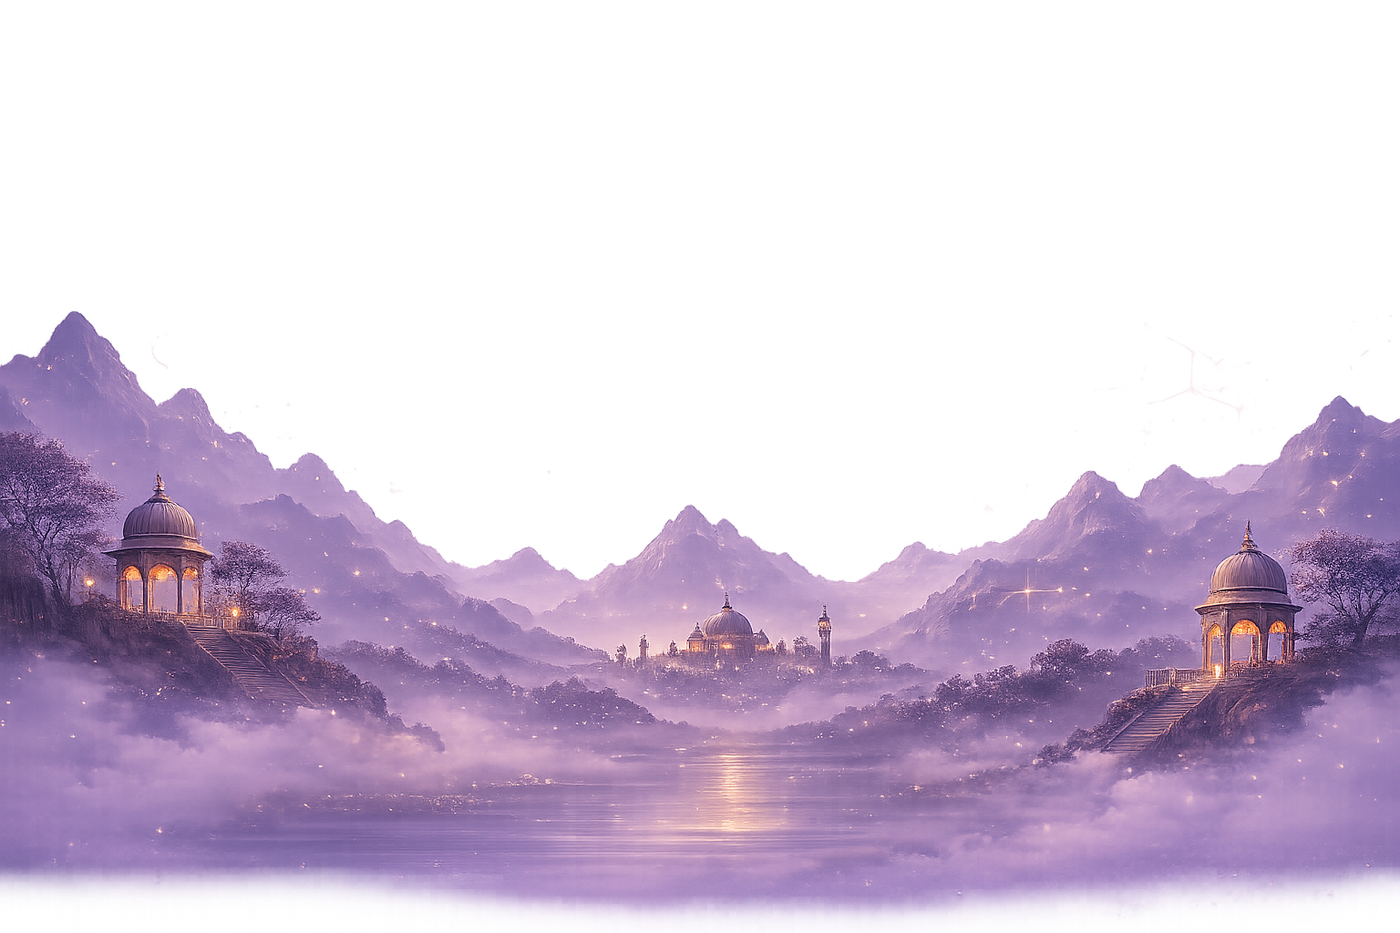
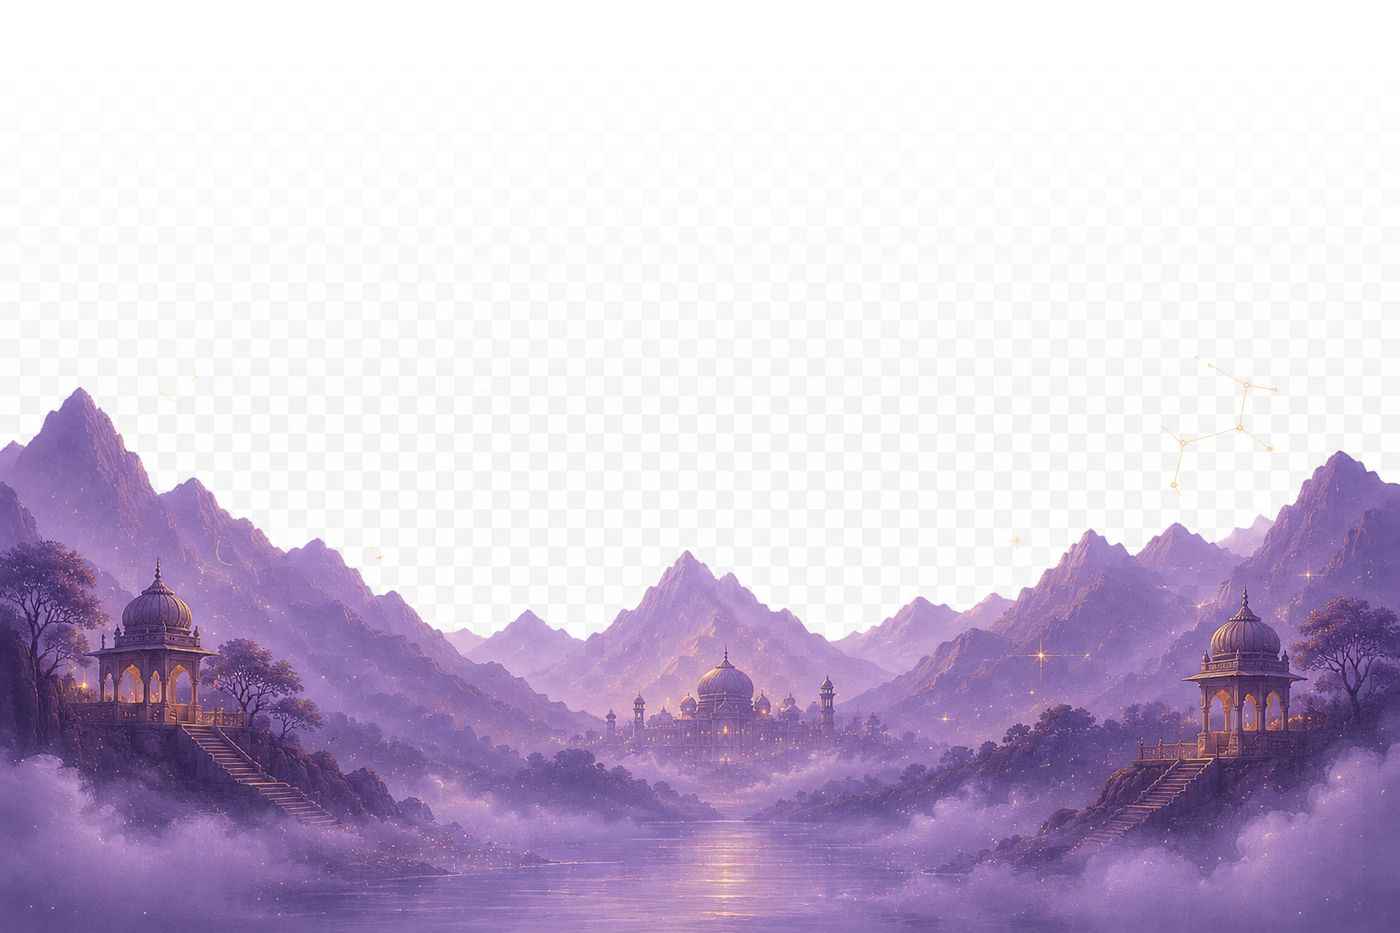
Refine login wordmark and use a full-bottom scenery
- Login: smaller "Welcome to", "Asktro" in title case on one line (dark purple).
- Replace the scenery with a source whose landscape fills the full bottom edge
  (the previous one faded to transparent at the bottom); fade only the sky.

Claude-Session: https://claude.ai/code/session_01ARN2cW8n5nnHYScBdeGde2

diff --git a/apps/customer/lib/features/auth/login_screen.dart b/apps/customer/lib/features/auth/login_screen.dart
@@ -113,13 +113,10 @@ class _LoginScreenState extends ConsumerState<LoginScreen> {
                   const SizedBox(height: 18),
                   const Center(child: AppLogo(height: 60)),
                   const SizedBox(height: 42),
-                  Text.rich(TextSpan(
-                    style: Ob.hero.copyWith(fontSize: 40, height: 1.05),
-                    children: [
-                      const TextSpan(text: 'Welcome to\n'),
-                      TextSpan(text: 'ASKTRO', style: TextStyle(color: Ob.purpleDeep)),
-                    ],
-                  )),
+                  Text('Welcome to', style: Ob.subtitleLg.copyWith(fontWeight: FontWeight.w500)),
+                  const SizedBox(height: 2),
+                  Text('Asktro',
+                      style: Ob.hero.copyWith(fontSize: 46, height: 1, color: Ob.purpleDeep)),
                   const SizedBox(height: 14),
                   const SparkleDivider(),
                   const SizedBox(height: 16),
